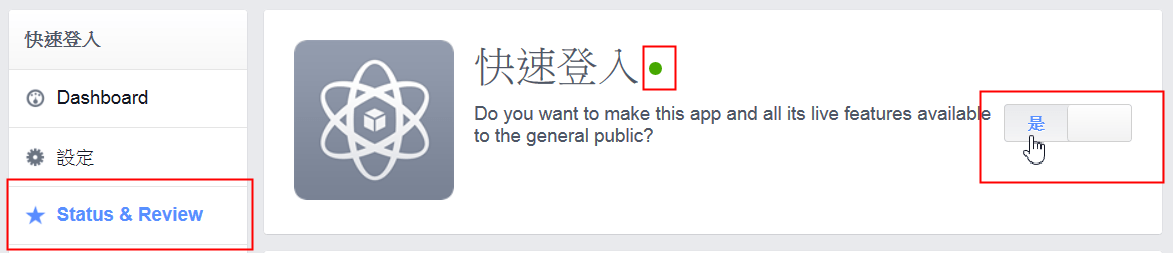
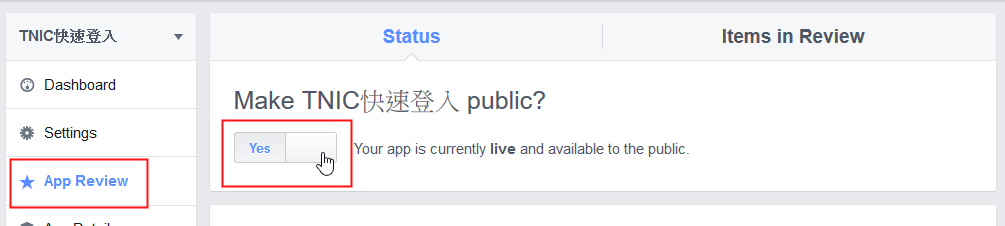
加入台北市

diff --git a/language/tchinese_utf8/admin.php b/language/tchinese_utf8/admin.php
@@ -9,25 +9,26 @@ define('_MA_TADLOGIN_STEP4', "<h1>【步驟 4】手機驗證</h1><p>請輸入手
 define('_MA_TADLOGIN_STEP5', "<h1>【步驟 5】恭喜完成第一步</h1><p>現在您已經是FB開發者了，日後就無須再重複此步驟了！</p>");
 
 define('_MA_TADLOGIN_STEP6', "<h1>【步驟 1】建立應用程式</h1><p>請連至 <a href='https://developers.facebook.com/apps' target='_blank'>https://developers.facebook.com/apps</a>，若您已經是開發者，那麼應該可以看到「製作新應用程式」按鈕，請點選「製作新應用程式」以開始設定。</p>");
-define('_MA_TADLOGIN_STEP7', "<h1>【步驟 2】建立新的應用程式</h1><p><ol><li>「Display Name」即「顯示名稱」就填一個您看得懂的中文即可，例如「快速登入」</li><li>「Namespace」應用程式名稱空間填入一個英文代號（僅能小寫英文字母和底線或-符號，數字或中文不行），例如：xxx_login</li><li>「類別」就隨便選一個吧！</li></ol></p>");
-define('_MA_TADLOGIN_STEP8', "<h1>【步驟 3】驗證</h1><p>請努力通過煩人的驗證碼，若有換行處記得要空一格。</p>");
-define('_MA_TADLOGIN_STEP9', "<h1>【步驟 4】最重要的資訊</h1><p>上面的「應用程式 ID」和 「應用程式密鑰」 就是等一下要填到XOOPS快速登入偏好設定的兩個值。</p>");
+define('_MA_TADLOGIN_STEP6_1', "<p>接著請選擇「basic setup」</p>");
+define('_MA_TADLOGIN_STEP7', "<h1>【步驟 2】建立新的應用程式</h1><p><ol><li>「Display Name」即「顯示名稱」就填一個您看得懂的中文即可，例如「快速登入」</li><li>「Namespace」或「命名空間」填入一個英文代號（僅能小寫英文字母和底線或-符號，數字或中文不行），例如：xxx_login，至少七個字以上。</li><li>「類別」就隨便選一個吧！</li></ol></p>");
+define('_MA_TADLOGIN_STEP8', "<h1>【步驟 3】驗證</h1><p>請努力通過煩人的驗證碼。</p>");
+define('_MA_TADLOGIN_STEP9', "<h1>【步驟 4】最重要的資訊</h1><p>上面的「App ID」或「應用程式 ID」和「App Secret」或「應用程式密鑰」 就是等一下要填到XOOPS快速登入偏好設定的兩個值。</p>");
 define('_MA_TADLOGIN_STEP10', "<h1>【步驟 5】新增平台</h1><p>接著點選「設定」，填好電子郵件，按下「新增平台」</p>");
 define('_MA_TADLOGIN_STEP11', "<h1>【步驟 6】新增「網站」</h1><p>請選擇「網站」。</p>");
 define('_MA_TADLOGIN_STEP12', "<h1>【步驟 7】設定網址</h1><p>接著輸入您想用FB登入的網站之網址。</p>");
 define('_MA_TADLOGIN_STEP13', "<h1>【步驟 8】啟用登入功能</h1><p>接著點選「進階」，找到下方的「Emberedded browser OAuth Login」，並啟動之，這樣就大公告成了</p>");
-define('_MA_TADLOGIN_STEP14', "<h1>【步驟 9】確定有開放功能</h1><p>若是發現綠色圈圈為空心的，表示功能尚未開放給其他人使用，請點選「Status&Review」將開關切換成「是」即可。</p>");
+define('_MA_TADLOGIN_STEP14', "<h1>【步驟 9】確定有開放功能</h1><p>請點選「App Review」將開關切換成「是」即可。</p>");
 define('_MA_TADLOGIN_STEP15', "<h1>【步驟 10】偏好設定</h1><p>請連到本模組的偏好設定，將「應用程式 ID」和 「應用程式密鑰」依序填入，並記得選取「Facebook」認證方式，最後儲存即可。</p>");
 
 define('_MA_TADLOGIN_GOO_STEP1', "<h1>【步驟 1】建立Google專案</h1><p>請連至<a href='https://console.developers.google.com/project' target='_blank'>https://console.developers.google.com/project</a>建立一個新專案</p>");
-define('_MA_TADLOGIN_GOO_STEP2', "<h1>【步驟 2】啟動API</h1><p>專案建立後，至該專案的 OverView 去啟動API，按下即可。</p>");
-define('_MA_TADLOGIN_GOO_STEP3', "<h1>【步驟 3】建立證書</h1><p>至「Credentials」，點選「Create new Client ID」</p>");
-define('_MA_TADLOGIN_GOO_STEP4', "<h1>【步驟 4】建立Client ID</h1><p>選擇「Web application」，「Authorized JavaScript origins」輸入網站網址：「Authorized redirect URI」則輸入「" . XOOPS_URL . "/modules/tad_login/index.php」</p>");
-define('_MA_TADLOGIN_GOO_STEP5', "<h1>【步驟 5】取得 Client ID</h1><p>紅框處就是到時候要填入偏好設定中的項目值。</p>");
-define('_MA_TADLOGIN_GOO_STEP6', "<h1>【步驟 6】建立API Key</h1><p>點選「Create new Key」以建立 API Key</p>");
-define('_MA_TADLOGIN_GOO_STEP7', "<h1>【步驟 7】建立新的金鑰</h1><p>選擇「Browser Key」</p>");
+define('_MA_TADLOGIN_GOO_STEP2', "<h1>【步驟 2】啟動API</h1><p>專案建立後，按下「啟動和管理API」即可。</p>");
+define('_MA_TADLOGIN_GOO_STEP3', "<h1>【步驟 3】憑證管理</h1><p>至「憑證」，點選「Create new Client ID」中的「OAuth用戶端ID」</p>");
+define('_MA_TADLOGIN_GOO_STEP4', "<h1>【步驟 4】建立用戶端 ID</h1><p>選擇「網路應用程式」，在「已授權的 JavaScript 來源」輸入網站網址；「已授權的重新導向」則輸入「" . XOOPS_URL . "/modules/tad_login/index.php」</p>");
+define('_MA_TADLOGIN_GOO_STEP5', "<h1>【步驟 5】取得用戶端 ID</h1><p>底下就是到時候要填入偏好設定中的項目值。</p>");
+define('_MA_TADLOGIN_GOO_STEP6', "<h1>【步驟 6】建立 API 金鑰</h1><p>點選「API 金鑰」以建立 API 金鑰</p>");
+define('_MA_TADLOGIN_GOO_STEP7', "<h1>【步驟 7】建立新的金鑰</h1><p>選擇「瀏覽器金鑰」</p>");
 define('_MA_TADLOGIN_GOO_STEP8', "<h1>【步驟 8】設定允許來源</h1><p>輸入貴站網域名稱即可。</p>");
-define('_MA_TADLOGIN_GOO_STEP9', "<h1>【步驟 9】取得 API Key</h1><p>紅框處的 API Key 就是到時候要填入偏好設定中的項目值。</p>");
+define('_MA_TADLOGIN_GOO_STEP9', "<h1>【步驟 9】取得 API 金鑰</h1><p>底下的 API 金鑰就是到時候要填入偏好設定中的項目值。</p>");
 define('_MA_TADLOGIN_GOO_STEP10', "<h1>【步驟 10】登入畫面設定</h1><p>設定好您的Email，以及專案名稱，就大公告成了！</p>");
 define('_MA_TADLOGIN_GOO_STEP11', "<h1>【步驟 11】進行偏好設定</h1><p>接下來請至偏好設定，將四個欄位依序填入即可。</p>");
 

diff --git a/function.php b/function.php
@@ -323,10 +323,10 @@ if (!function_exists('login_xoops')) {
             }
 
             $sql = "INSERT INTO `" . $xoopsDB->prefix('groups_users_link') . "`  (groupid, uid) VALUES  (2, " . $newuser->getVar('uid') . ")";
-            $xoopsDB->queryF($sql) or die(mysql_error());
+            $xoopsDB->queryF($sql) or web_error($sql);
 
             $sql = "replace into `" . $xoopsDB->prefix('tad_login_random_pass') . "` (`uname` , `random_pass`) values  ('{$uname}','{$pass}')";
-            $xoopsDB->queryF($sql) or die(mysql_error());
+            $xoopsDB->queryF($sql) or web_error($sql);
 
             login_xoops($uname, $name, $email, $SchoolCode, $JobName, $url, $form, $sig, $occ, $bio);
         }
@@ -342,7 +342,7 @@ if (!function_exists("getPass")) {
         }
 
         $sql               = "select `random_pass` from `" . $xoopsDB->prefix('tad_login_random_pass') . "` where `uname`='{$uname}'";
-        $result            = $xoopsDB->queryF($sql) or die(mysql_error());
+        $result            = $xoopsDB->queryF($sql) or web_error($sql);
         list($random_pass) = $xoopsDB->fetchRow($result);
 
         //舊OpenID使用者
@@ -350,18 +350,18 @@ if (!function_exists("getPass")) {
             $random_pass = randStr(128);
 
             $sql = "replace into `" . $xoopsDB->prefix('tad_login_random_pass') . "` (`uname` , `random_pass`) values  ('{$uname}','{$random_pass}')";
-            $xoopsDB->queryF($sql) or die(mysql_error());
+            $xoopsDB->queryF($sql) or web_error($sql);
 
             $sql = "update `" . $xoopsDB->prefix('users') . "` set `pass`=md5('{$random_pass}') where `uname`='{$uname}'";
-            $xoopsDB->queryF($sql) or die(mysql_error());
+            $xoopsDB->queryF($sql) or web_error($sql);
         }
 
         $sql        = "select `pass` from `" . $xoopsDB->prefix('users') . "` where `uname`='{$uname}'";
-        $result     = $xoopsDB->queryF($sql) or die(mysql_error());
+        $result     = $xoopsDB->queryF($sql) or web_error($sql);
         list($pass) = $xoopsDB->fetchRow($result);
         if ($pass !== md5($random_pass)) {
             $sql = "update `" . $xoopsDB->prefix('users') . "` set `pass`=md5('{$random_pass}') where `uname`='{$uname}'";
-            $xoopsDB->queryF($sql) or die(mysql_error());
+            $xoopsDB->queryF($sql) or web_error($sql);
         }
 
         return $random_pass;
@@ -391,19 +391,19 @@ if (!function_exists("add2group")) {
         }
 
         $sql    = "select `item`,`kind`,`group_id` from `" . $xoopsDB->prefix('tad_login_config') . "`";
-        $result = $xoopsDB->queryF($sql) or die(mysql_error());
+        $result = $xoopsDB->queryF($sql) or web_error($sql);
         while (list($item, $kind, $group_id) = $xoopsDB->fetchRow($result)) {
             if (!in_array($group_id, $userGroups)) {
                 //echo "<h1>{$group_id}-{$item}-{$SchoolCode}-{$email}</h1>";
                 if (!empty($SchoolCode) and strpos($item, $SchoolCode) !== false and $JobName == $kind) {
                     $sql = "insert into `" . $xoopsDB->prefix('groups_users_link') . "` (groupid,uid ) values($group_id,$uid)";
-                    $xoopsDB->queryF($sql) or die(mysql_error());
+                    $xoopsDB->queryF($sql) or web_error($sql);
                     //echo "{$group_id}, {$uid}<br>";
                 }
 
                 if (!empty($email) and strpos($item, $email) !== false) {
                     $sql = "insert into `" . $xoopsDB->prefix('groups_users_link') . "` (groupid,uid ) values($group_id,$uid)";
-                    $xoopsDB->queryF($sql) or die(mysql_error());
+                    $xoopsDB->queryF($sql) or web_error($sql);
                     //echo "{$group_id}, {$uid}<br>";
                 }
             }

diff --git a/index.php b/index.php
@@ -129,8 +129,9 @@ function tp_login()
         $openid = new LightOpenID(XOOPS_URL);
 
         if (!$openid->mode) {
-            $openid->identity = "https://openid.tp.edu.tw";
-            $openid->required = array('contact/email', 'namePerson');
+            $openid->identity = "https://openid.tp.edu.tw/openid/op.action";
+            $openid->required = array('contact/email', 'namePerson/friendly', 'namePerson');
+            $openid->optional = array('axschema/person/accountType', 'axschema/school/titleStr', 'axschema/school/id');
             header('Location: ' . $openid->authUrl());
 
         } else {
@@ -581,7 +582,7 @@ function tc_login($conty = "", $openid_identity = "")
 
         } else {
             $user_profile = $openid->getAttributes();
-            //die(var_export($user_profile));
+            // die(var_export($user_profile));
             /*
             array (
[1 lines of base64/hex data omitted]
@@ -599,6 +600,8 @@ function tc_login($conty = "", $openid_identity = "")
             'namePerson' => '測試帳號',
             )
             //南投
+            array ( 'contact/email' => ' t03238@mail.edu.tw', 'namePerson' => '劉坤榮', )
+
             array (
[1 lines of base64/hex data omitted]
             'axschema/school/titleStr' => '[{\\"id\\":\\"084719a1\\",\\"title\\":[\\"教師\\"]},{\\"id\\":\\"084716a1\\",\\"title\\":[\\"教師\\"]}]',
@@ -606,6 +609,7 @@ function tc_login($conty = "", $openid_identity = "")
             'contact/email' => 'kk@k.2.k',
             'namePerson' => '測試一',
             )
+
             //彰化
             array (
[1 lines of base64/hex data omitted]
@@ -626,7 +630,7 @@ function tc_login($conty = "", $openid_identity = "")
                     $email = "{$uname}@{$SchoolCode}.{$conty}.edu.tw";
                 } else {
                     $the_id = explode("@", $user_profile['contact/email']);
-                    $uname  = $the_id[0] . "_" . $conty;
+                    $uname  = trim($the_id[0]) . "_" . $conty;
                     $email  = $user_profile['contact/email'];
                 }
                 //$uid = $user['id'];
@@ -922,12 +926,12 @@ switch ($op) {
 
     case "hlc":
         $_SESSION['auth_method'] = "hlc";
-        hlc_login('hlc', "https://sso.hlc.edu.tw");
+        hlc_login('hlc', "http://openid.hlc.edu.tw");
         break;
 
     case "tp":
         $_SESSION['auth_method'] = "tp";
-        hlc_login('tp', "https://openid.tp.edu.tw");
+        tp_login();
         break;
 
     case "tyc":
@@ -1007,7 +1011,7 @@ switch ($op) {
         } elseif ($_SESSION['auth_method'] == "chc") {
             tc_login("chc", "http://openid.chc.edu.tw");
         } elseif ($_SESSION['auth_method'] == "tp") {
-            hlc_login('tp', "https://openid.tp.edu.tw");
+            tp_login();
         } elseif ($_SESSION['auth_method'] == "tyc") {
             hlc_login('tyc', "http://openid.tyc.edu.tw");
         } elseif ($_SESSION['auth_method'] == "ttct") {

diff --git a/language/english/admin.php b/language/english/admin.php
@@ -9,6 +9,7 @@ define('_MA_TADLOGIN_STEP4', '<h1> [Step 4] phone verification </h1> <p> Please 
 define('_MA_TADLOGIN_STEP5', '"<h1> [Step 5] Congratulations on the completion of the first step </h1> <p> Now that you have a FB developer, the future would be no need to repeat this step up! </p>');
 
 define('_MA_TADLOGIN_STEP6', "<h1> [Step 1] Create application </h1> <p> Please connect to <a href='https://developers.facebook.com/apps' target='_blank'> https://developers.facebook.com/apps </a>, if you are already a developer, you should see 'Create New Application' button, click 'Create New Application' to start setting. </p> ");
+define('_MA_TADLOGIN_STEP6_1', "<p>Click \"basic setup\"</p>");
 define('_MA_TADLOGIN_STEP7', '<h1> [Step 2] to build new applications </h1> <p> <ol> <li>" Display Name "that is," Display Name "to fill the one you can understand Chinese you can, for example, "Quick Login" </li> <li> "Namespace" application name space to fill an English code (only lower case letters and the bottom line or - symbols, numbers, or Chinese not), for example: xxx_login </li> <li> "categories" to pick a bar </li> </ol> </p> ');
 define('_MA_TADLOGIN_STEP8', "<h1> [Step 3] Verify </h1> <p> Please effort by annoying verification code, if I remember to wrap at a space </p>.");
 define('_MA_TADLOGIN_STEP9', '<h1> [Step 4] the most important information </h1> <p> The above" application ID "and" application key "is to wait to fill the XOOPS Quick Access Preferences . The two values </p> ');

diff --git a/xoops_version.php b/xoops_version.php
@@ -3,7 +3,7 @@ $modversion = array();
 
 //---模組基本資訊---//
 $modversion['name']        = _MI_TADLOGIN_NAME;
-$modversion['version']     = 3.5;
+$modversion['version']     = 3.6;
 $modversion['description'] = _MI_TADLOGIN_DESC;
 $modversion['author']      = _MI_TADLOGIN_AUTHOR;
 $modversion['credits']     = _MI_TADLOGIN_CREDITS;
@@ -14,7 +14,7 @@ $modversion['image']       = "images/logo_{$xoopsConfig['language']}.png";
 $modversion['dirname']     = basename(__DIR__);
 
 //---模組狀態資訊---//
-$modversion['release_date']        = '2015/12/25';
+$modversion['release_date']        = '2016/02/17';
 $modversion['module_website_url']  = 'http://tad0616.net/';
 $modversion['module_website_name'] = _MI_TAD_WEB;
 $modversion['module_status']       = 'release';
@@ -144,7 +144,7 @@ $modversion['config'][$i]['options']     = array(
     sprintf(_MI_TADLOGIN_LOGIN, _FACEBOOK) => 'facebook',
     sprintf(_MI_TADLOGIN_LOGIN, _GOOGLE)   => 'google',
     sprintf(_MI_TADLOGIN_LOGIN, _YAHOO)    => 'yahoo',
-    sprintf(_MI_TADLOGIN_LOGIN, _MYID)     => 'myid',
+    // sprintf(_MI_TADLOGIN_LOGIN, _MYID)     => 'myid',
     sprintf(_MI_TADLOGIN_LOGIN, _KL)       => 'kl',
     sprintf(_MI_TADLOGIN_LOGIN, _TP)       => 'tp',
     sprintf(_MI_TADLOGIN_LOGIN, _NTPC)     => 'ntpc',

diff --git a/admin/fb.php b/admin/fb.php
@@ -7,7 +7,8 @@ include_once "../function.php";
 /*-----------function區--------------*/
 
 //FB登入說明
-function facebook_desc() {
+function facebook_desc()
+{
     global $xoopsTpl;
     $main = "
     <label>" . _MA_TADLOGIN_STEP1 . "</label><br>
@@ -23,6 +24,8 @@ function facebook_desc() {
     <hr>
     <label>" . _MA_TADLOGIN_STEP6 . "</label><br>
     <img src='../images/fb/step06.png' alt='step6' title='step6' border='0' class='img-polaroid'><br><br>
+    <label>" . _MA_TADLOGIN_STEP6_1 . "</label><br>
+    <img src='../images/fb/step06_1.png' alt='step6' title='step6_1' border='0' class='img-polaroid'><br><br>
     <label>" . _MA_TADLOGIN_STEP7 . "</label><br>
     <img src='../images/fb/step07.png' alt='step7' title='step7' border='0' class='img-polaroid'><br><br>
     <label>" . _MA_TADLOGIN_STEP8 . "</label><br>
@@ -56,7 +59,7 @@ switch ($op) {
         facebook_desc();
         break;
 
-    /*---判斷動作請貼在上方---*/
+        /*---判斷動作請貼在上方---*/
 }
 
 /*-----------秀出結果區--------------*/
